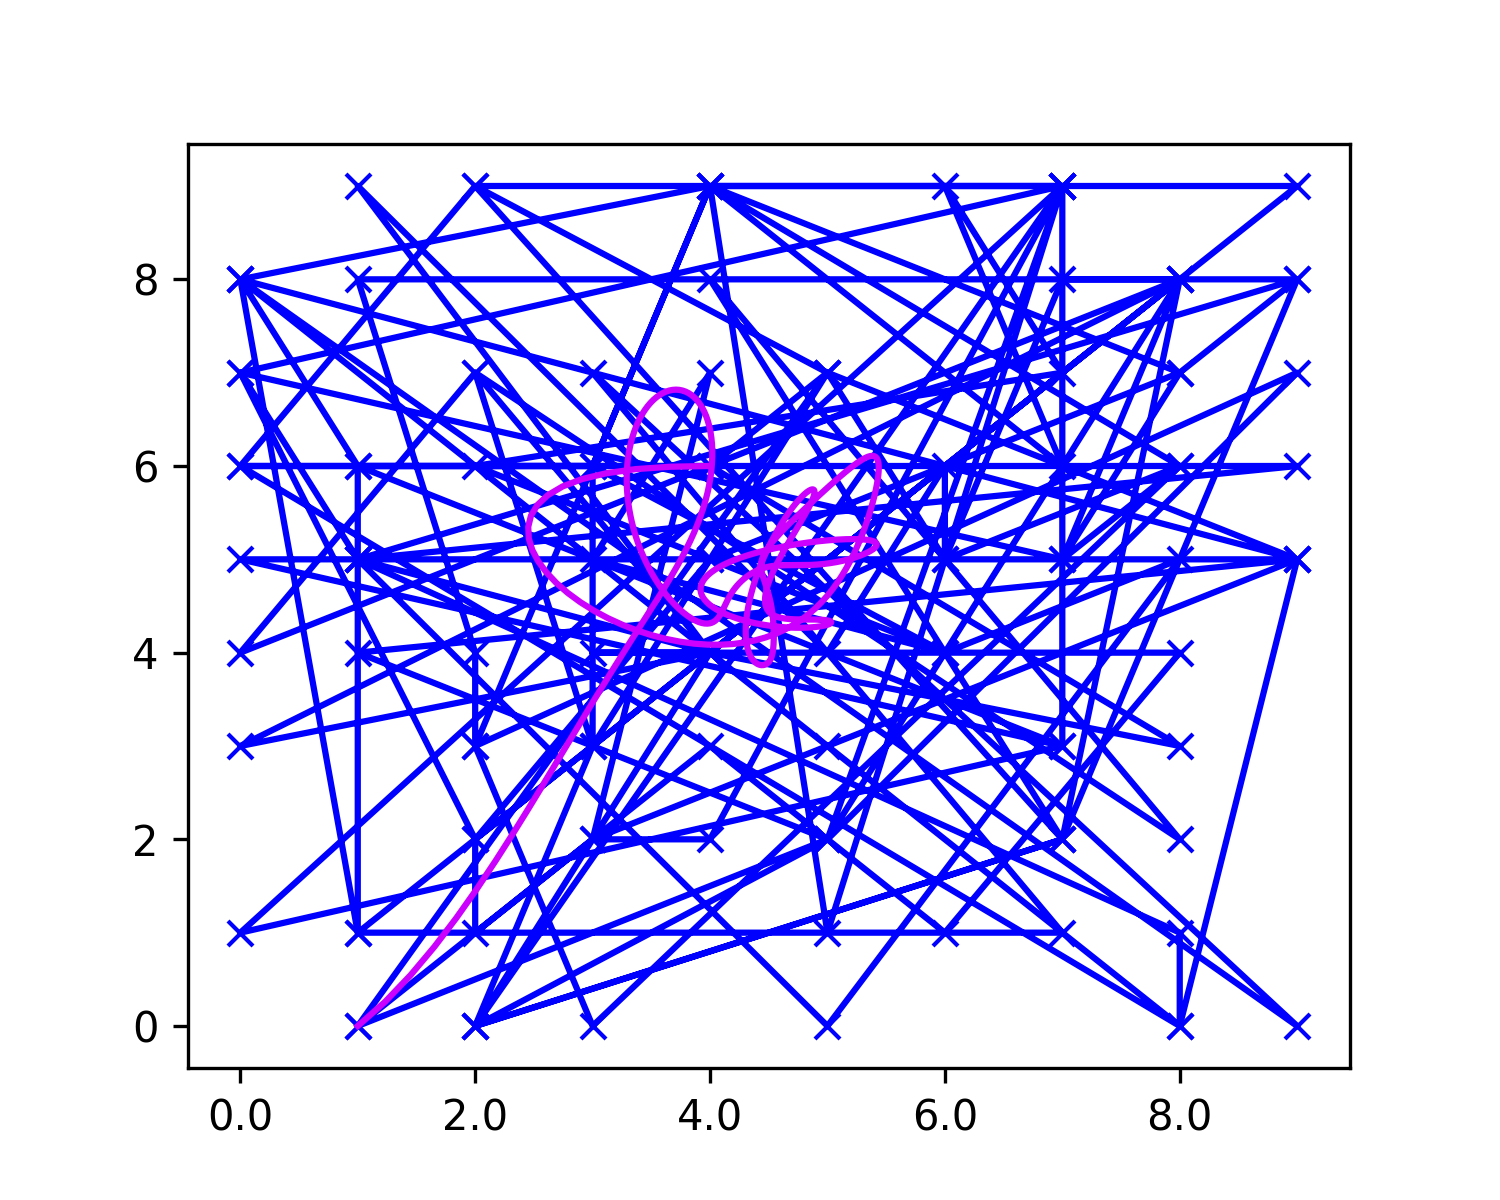
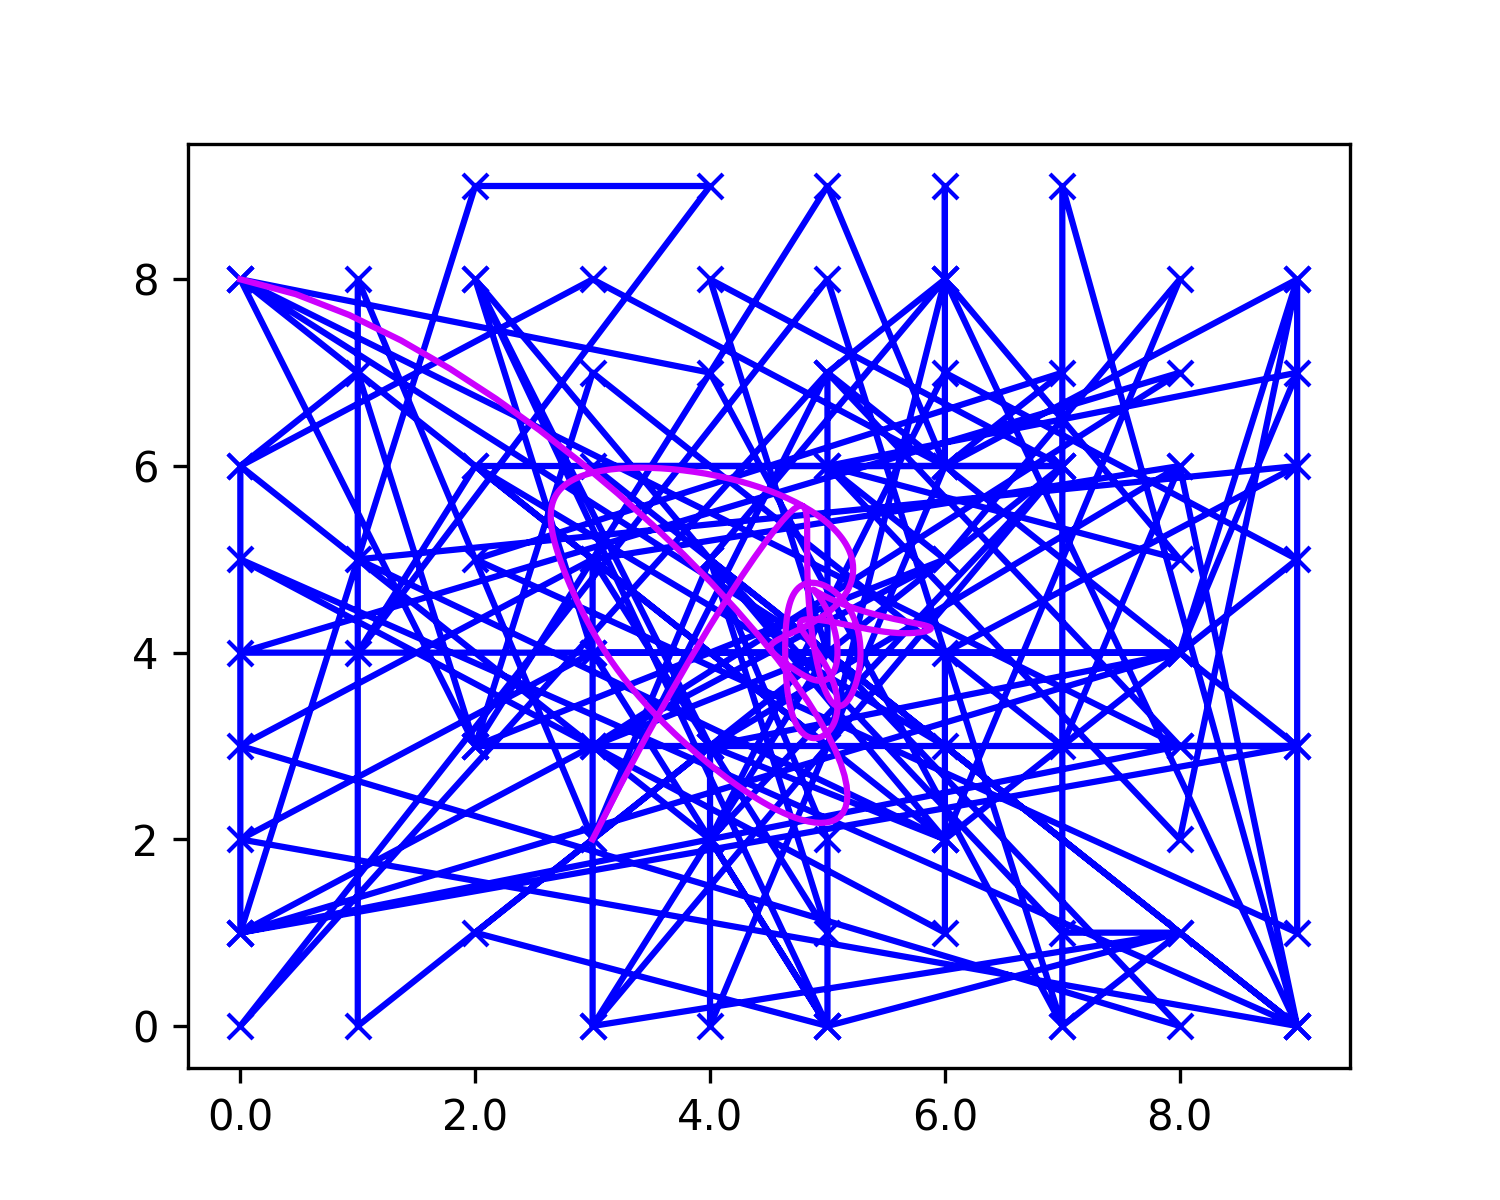
courbes de Bézier réussies sur 01 et 02

Changed region(s): [[0.1533, 0.1233, 0.8893, 0.8633]]

diff --git a/Code Questions/projet2_02.py b/Code Questions/projet2_02.py
@@ -1,0 +1,63 @@
+#%%
+from projet2_01 import*
+import numpy as np
+from  math import*
+import matplotlib.pyplot as plt
+from matplotlib.ticker import FormatStrFormatter
+#from matplotlib.animation import FuncAnimation
+
+
+
+# Pour e : 
+cn = [(1,2), (2,2), (2,2), (3,2), (3,3), (3,3)]
+cn += [(2,3), (1,3), (1,3), (1,2), (1,1), (1,1)]
+cn += [(2,1), (3,1), (3,1), (3,1.5)]
+    
+
+cn1 = [(1,2), (2,2), (2,2), (3,2), (3,3), (3,3)]
+cn1 += [(2,3), (1,3), (1,3), (1,2), (1,1), (1,1)]
+c8 = [1.8,2]
+cn2 = [(3,1), (3,1), (3,1.5)]
+
+plt.clf()
+fig, ax = plt.subplots()
+N = 40
+
+def move(N):
+    for k in range(N):
+        c8[0] += 0.2/(N)
+        c8[1] -= 1/(N)
+        cn = cn1 + [(c8[0], c8[1])] + cn2
+        x = extract(bezier(cn,segment(1000)), 0)
+        y = extract(bezier(cn,segment(1000)), 1)
+        ax.plot(extract(cn,0), extract(cn,1), "-x", color=(0.8 + 0.2*k/N, 0.8 - 0.2*k/N, 0.8 - 0.4*k/N))
+    for k in range(N):
+        c8[0] += 0.2/(N)
+        c8[1] -= 1/(N)
+        cn = cn1 + [(c8[0], c8[1])] + cn2
+        x = extract(bezier(cn,segment(1000)), 0)
+        y = extract(bezier(cn,segment(1000)), 1)    
+        ax.plot(x,y, color=(0.8-0.4*k/N,0.2*k/N,1))
+    fig.savefig("images-02/c8_modifié.png", dpi=300, format="png")
+
+def swap(i):
+    plt.clf()
+    fig, ax = plt.subplots()
+    cn = [(1,2), (2,2), (2,2), (3,2), (3,3), (3,3)]
+    cn += [(2,3), (1,3), (1,3), (1,2), (1,1), (1,1)]
+    cn += [(2,1), (3,1), (3,1), (3,1.5)]
+    temp = cn[i]
+    cn[i] = cn[i+1]
+    cn[i+1] = temp
+    cs = [cn[i], cn[i+1]]
+    x = extract(bezier(cn,segment(1000)), 0)
+    y = extract(bezier(cn,segment(1000)), 1)    
+    ax.plot(x,y, color=(0.4,0.2,1))
+    ax.plot(extract(cn,0), extract(cn,1), "-x", color="b")
+    ax.plot(extract(cs,0), extract(cs,1), "-x", color="r")
+    fig.savefig(f"images-02/swap/c{i}c{i+1}_échangés.png", dpi=300, format="png")
+
+for i in range(15):
+    swap(i)
+
+
